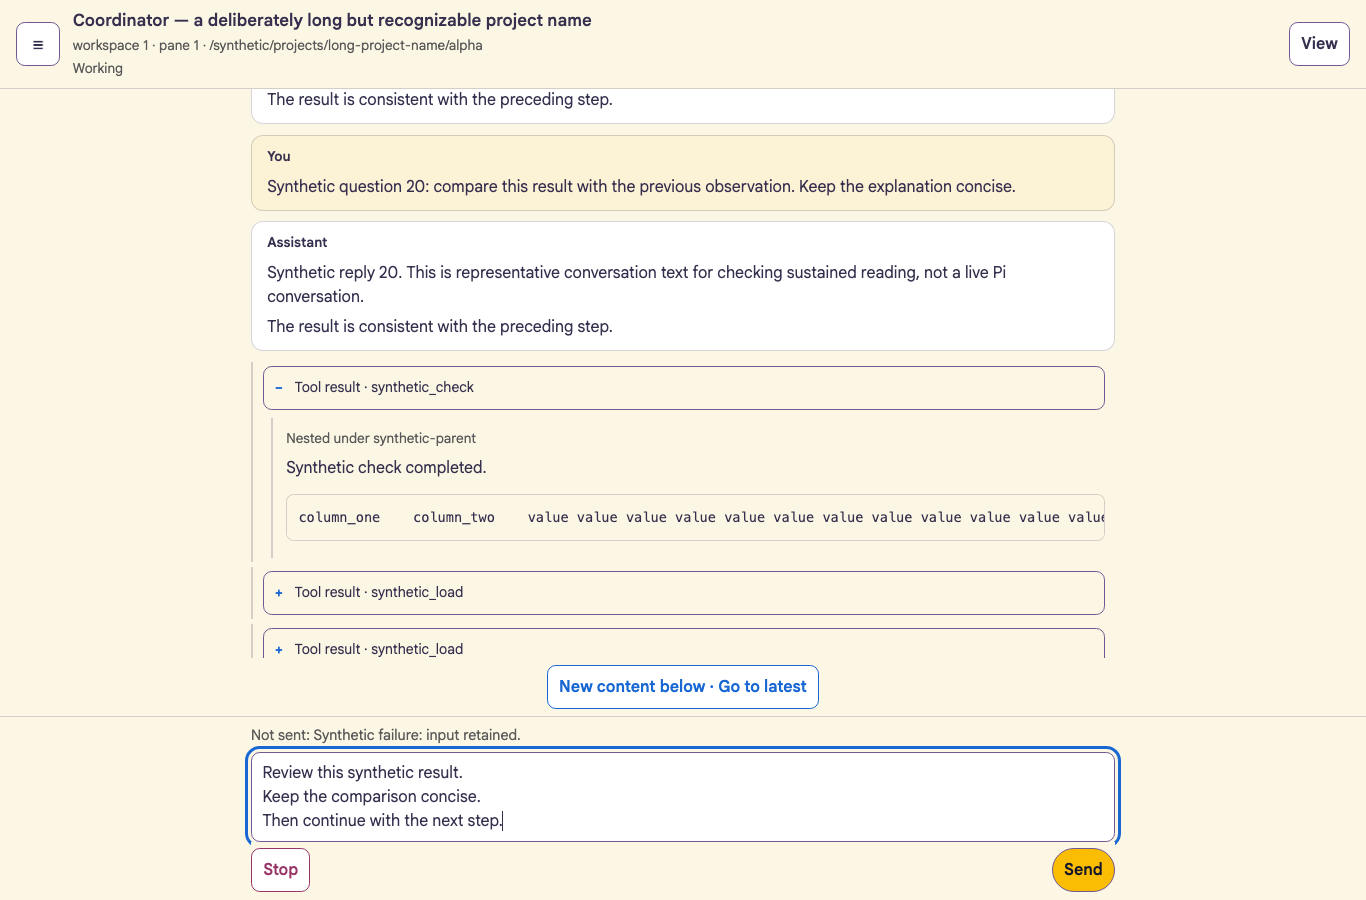
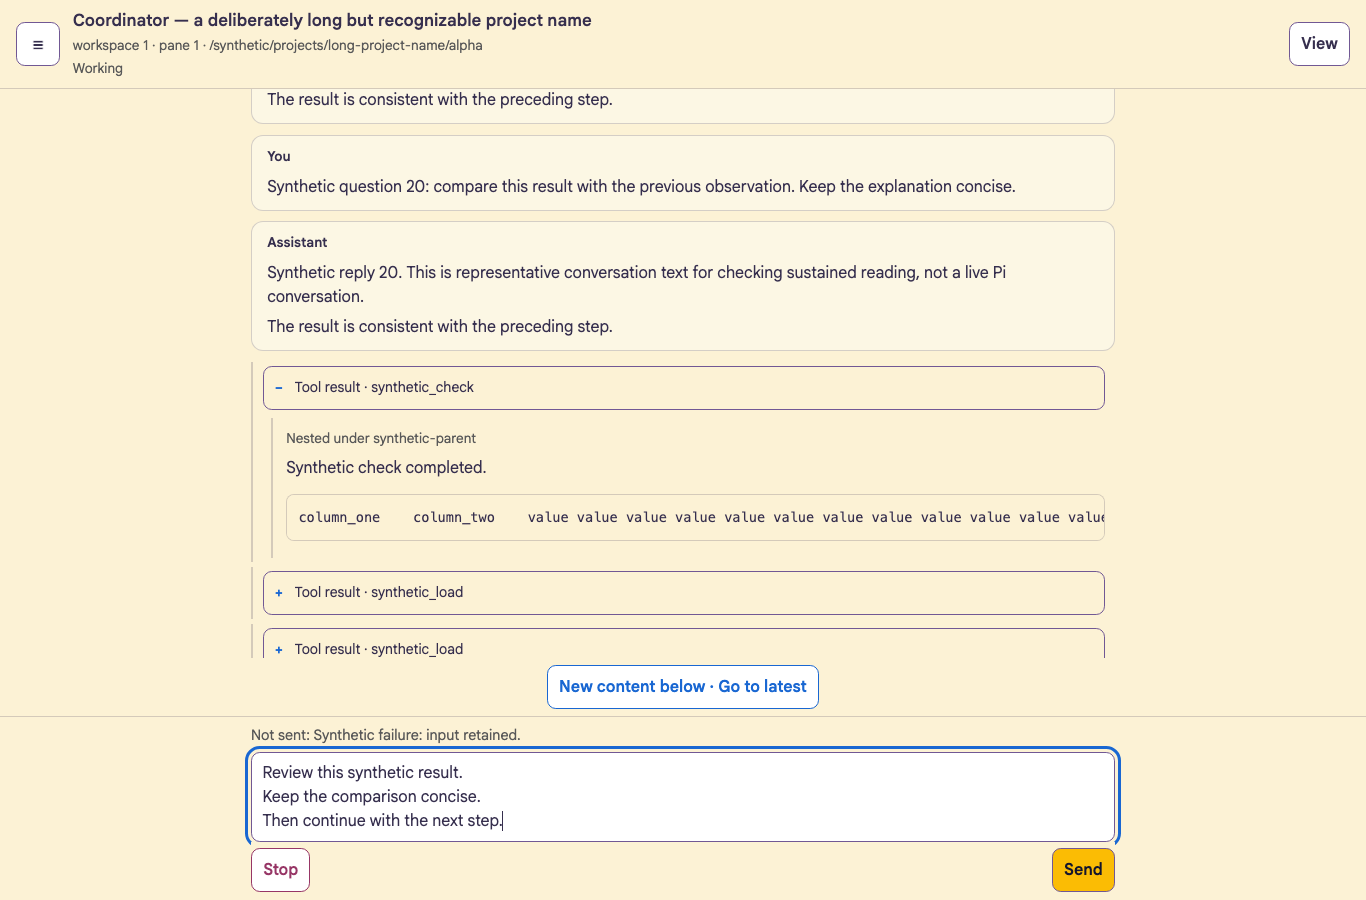
Preview Sand ground, Cream cards and modest Send corners
Use canonical Sand for the application ground and Cream for both message-card roles. Let Send inherit the ordinary control radius instead of a full pill; preserve dimensions, typography and behavior.

Refresh synthetic desktop/tablet screenshots. Build/lint/full tests and bounded Chrome interaction/layout checks pass. Preserve the operator's uncommitted configs/lan.json outside this commit.

Changed region(s): [[0.1845, 0.2489, 0.8302, 0.4044], [0.1845, 0.0933, 0.8302, 0.1556], [0.7687, 0.9333, 0.8302, 0.9956]]

diff --git a/internal/web/assets/style.css b/internal/web/assets/style.css
@@ -17,9 +17,10 @@
   font-family: "Google Sans", system-ui, sans-serif;
   font-size: 16px;
   font-weight: 400;
-  --ground: #fcf7e4;
-  --surface: #ffffff;
   --sand: #fcf2d5;
+  --cream: #fcf7e4;
+  --ground: var(--sand);
+  --surface: #ffffff;
   --morning-glory: #f3e4d7;
   --text: #362f4e;
   --muted: #595959;
@@ -159,7 +160,7 @@ article {
   padding: 0.7rem 0.95rem;
   border: 1px solid var(--border);
   border-radius: 0.75rem;
-  background: var(--surface);
+  background: var(--cream);
   overflow-wrap: anywhere;
 }
 article h2 {
@@ -169,9 +170,6 @@ article h2 {
   line-height: 1.5;
   margin: 0 0 0.45rem;
   color: var(--text);
-}
-article[data-role="user"] {
-  background: var(--sand);
 }
 article p {
   margin: 0.4rem 0;
@@ -348,7 +346,6 @@ footer > .footer-actions {
 }
 #send-button {
   margin-left: auto;
-  border-radius: 999px;
 }
 #send-button:not(:disabled) {
   border-color: var(--control-border);

diff --git a/docs/execution-plan.md b/docs/execution-plan.md
@@ -272,6 +272,10 @@ The operator approved the Dreamcoat private-tool treatment with the three UI rev
 
 The designer independently inspected rendered captures and coordinator JS/server changes, clearing the two concrete focus/layout corrections. Ordinary build/lint/test passed. Physical tablet touch/software keyboard, true browser zoom and full live history reconciliation remain provisional. All three coordinator-created fixture tabs were closed after capture; the user-owned UI designer session was not closed or otherwise managed. Final checks passed: build/lint, race-enabled Go packages and46 Node checks.
 
+### Palette preview refinement
+
+After seeing the running style, the operator explicitly requested Sand rather than white for the background, agreed to modest Send corners, and asked to see Cream cards. The current preview sets the ground to canonical Sand (#FCF2D5), both message-card roles to Cream (#FCF7E4), and Send inherits the ordinary0.55rem control radius. White input/control surfaces, type, spacing,44px targets and behavior are unchanged. Updated representative screenshots use the same synthetic Chrome conversation; desktop/tablet checks and ordinary build/lint/test pass. The combination remains for operator visual judgment, not a new design-system requirement. Existing configs/lan.json was user work and was not changed or included in this UI commit.
+
 ### Deferred follow-up: SSH tunnel access
 
 The operator reports **Host not permitted** when accessing RAI through an SSH tunnel; currently they must remote-view the host machine to use the page. Record this as an unresolved access defect, not a requirement to use remote desktop. No tunnel/configuration/security changes were requested for this turn.

diff --git a/docs/design.md b/docs/design.md
@@ -36,8 +36,10 @@ The list is for running sessions, not a browser of archived conversations. If di
 ## 3. Information architecture and layout
 
 **Visual direction:** Dreamcoat-derived private working instrument, not official
-branding or presentation-scale Quantum Lab styling. Cream chrome/ground, white
-reading/input/assistant surfaces, Sand user messages, Thistle text, Google Sans
+branding or presentation-scale Quantum Lab styling. The operator's current
+preview uses Sand chrome/ground and Cream user/assistant cards, with white input/
+control surfaces and modest matching Send corners rather than a pill. Thistle
+text, Google Sans
 normal/italic locally served under OFL, and a compact yellow Send with dark text.
 Blue focus/selection, opaque Phacelia control outlines, restrained Fuchsia Stop/
 errors, and Buckwheat warnings. Keep 16px body, 44px targets and moderate spacing;

diff --git a/README.md b/README.md
@@ -109,7 +109,8 @@ RAI never starts/stops Pi. Ctrl-C or SIGTERM stops only RAI-owned work.
 
 ## Visual treatment
 
-Dreamcoat-derived **private-tool** styling: Cream/Sand/white surfaces, plum text,
+Dreamcoat-derived **private-tool** styling: Sand background, Cream message cards,
+white input/control surfaces, plum text,
 locally bundled Google Sans, and one yellow Send action. It is not official Google
 branding. No artwork, texture, animation, external font request or new frontend
 framework. Code retains the system monospace stack. The fonts' OFL license is
